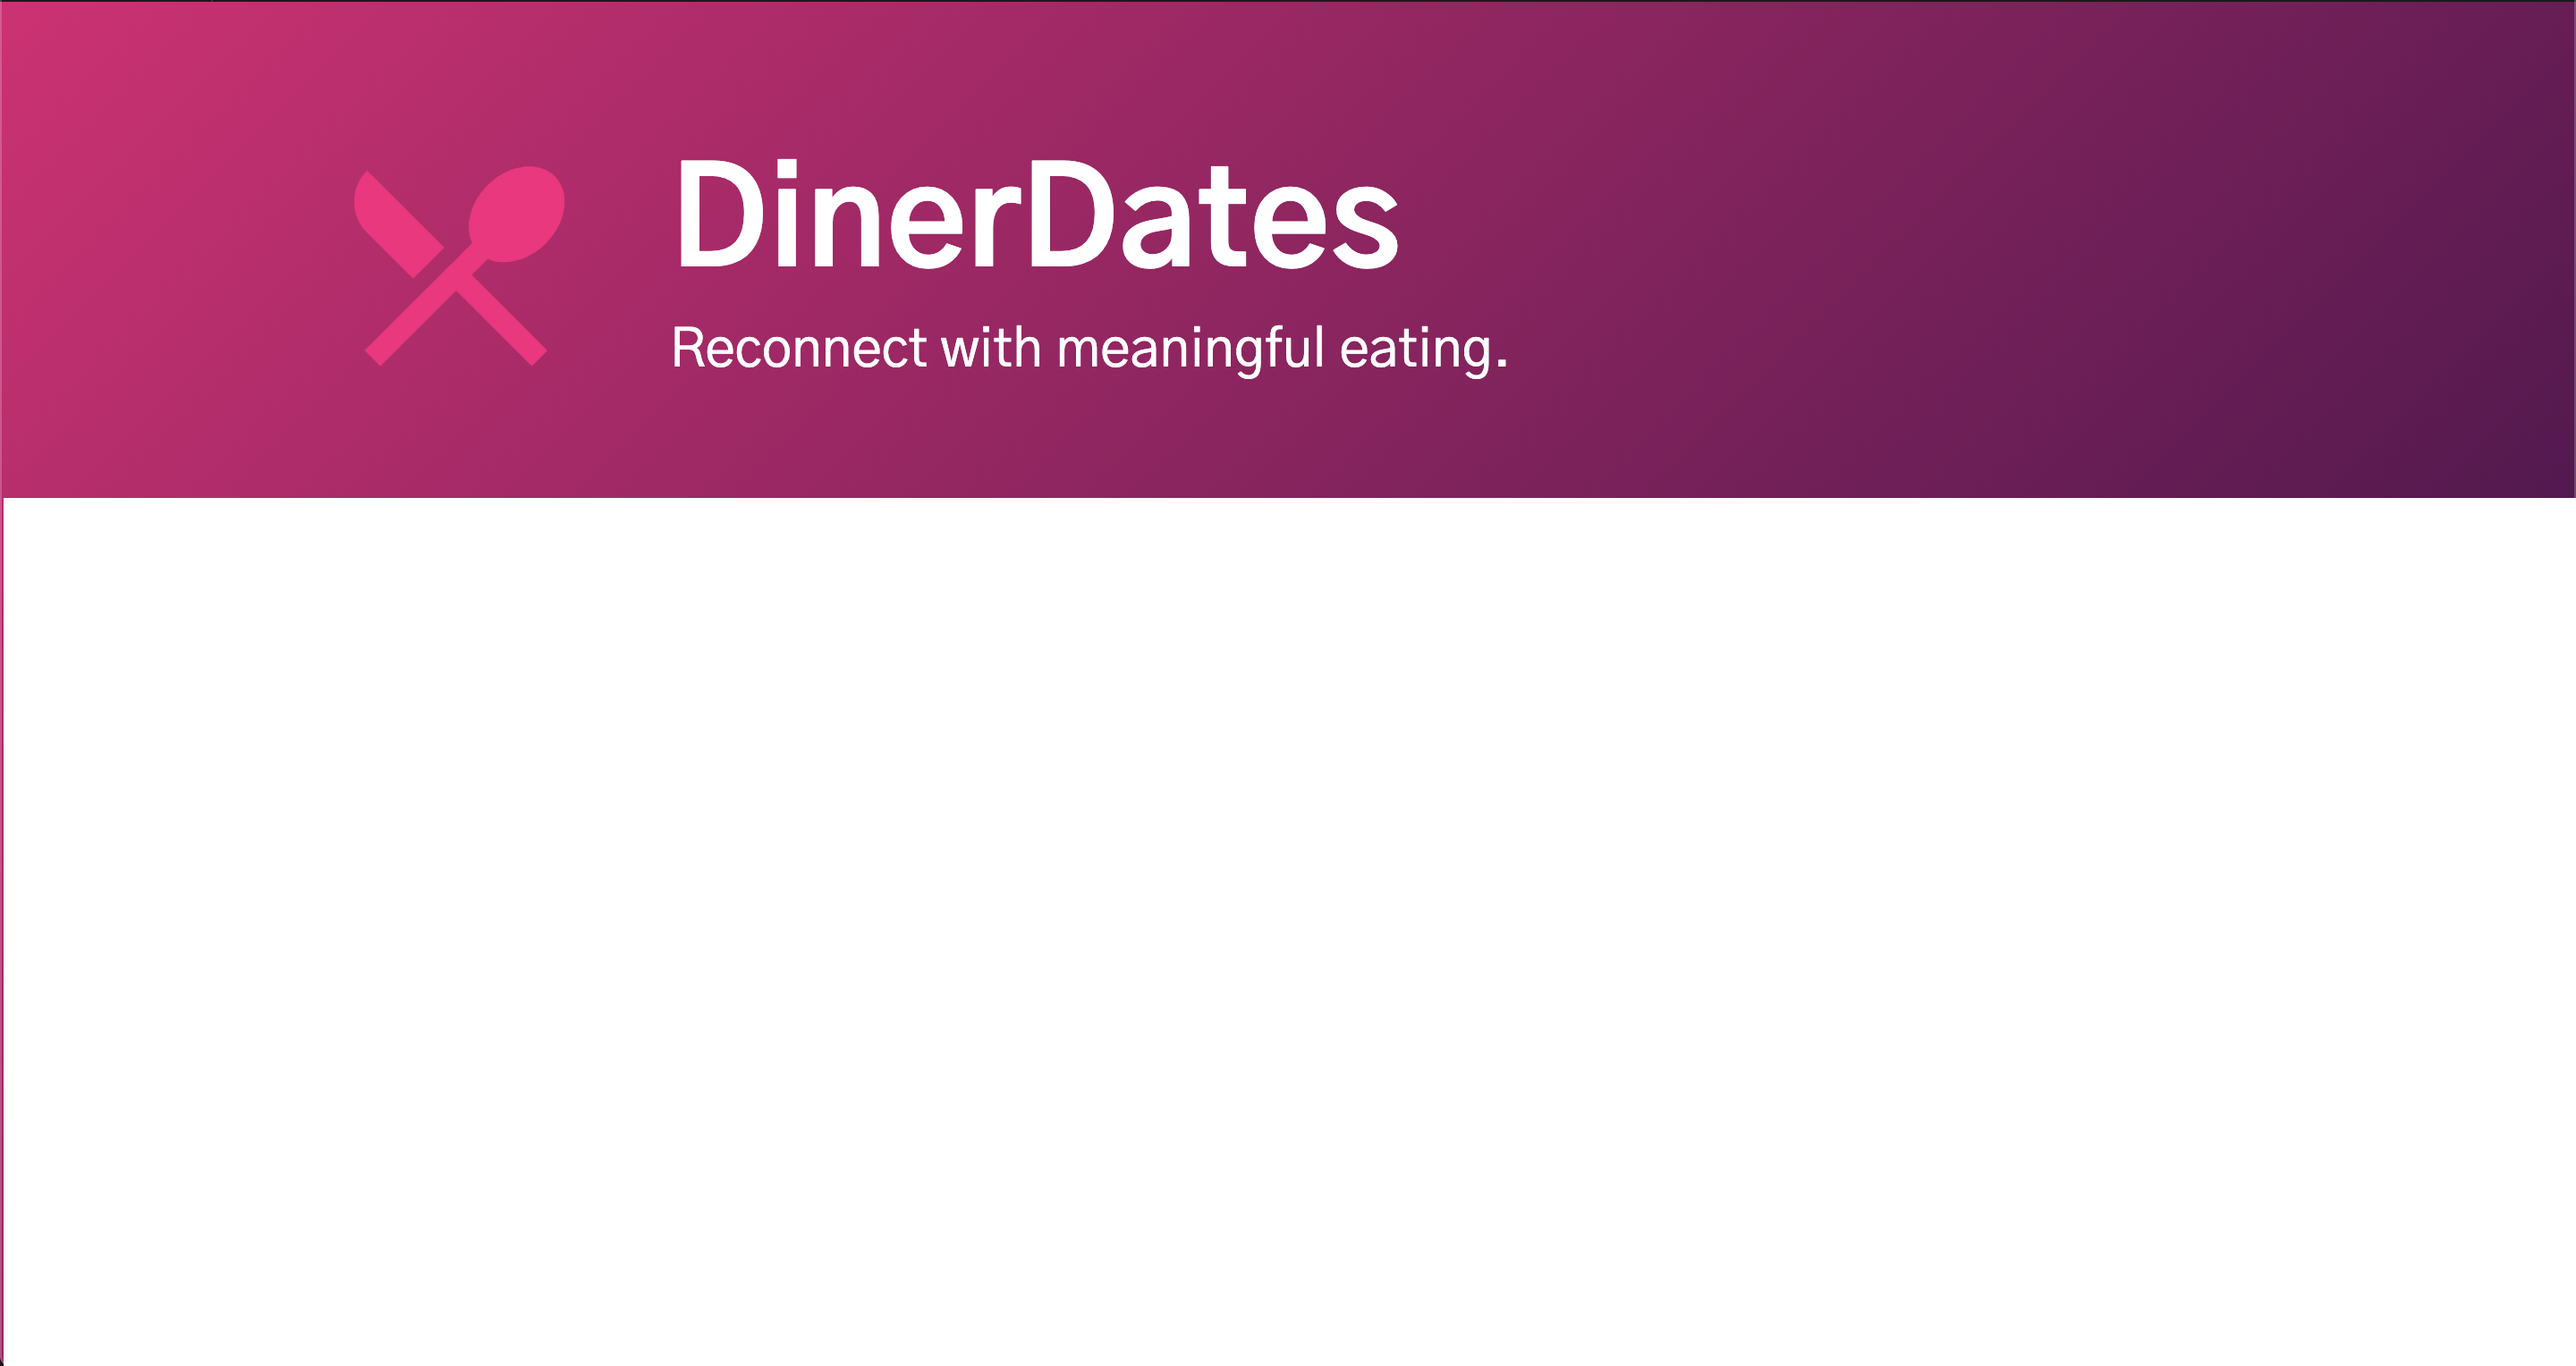
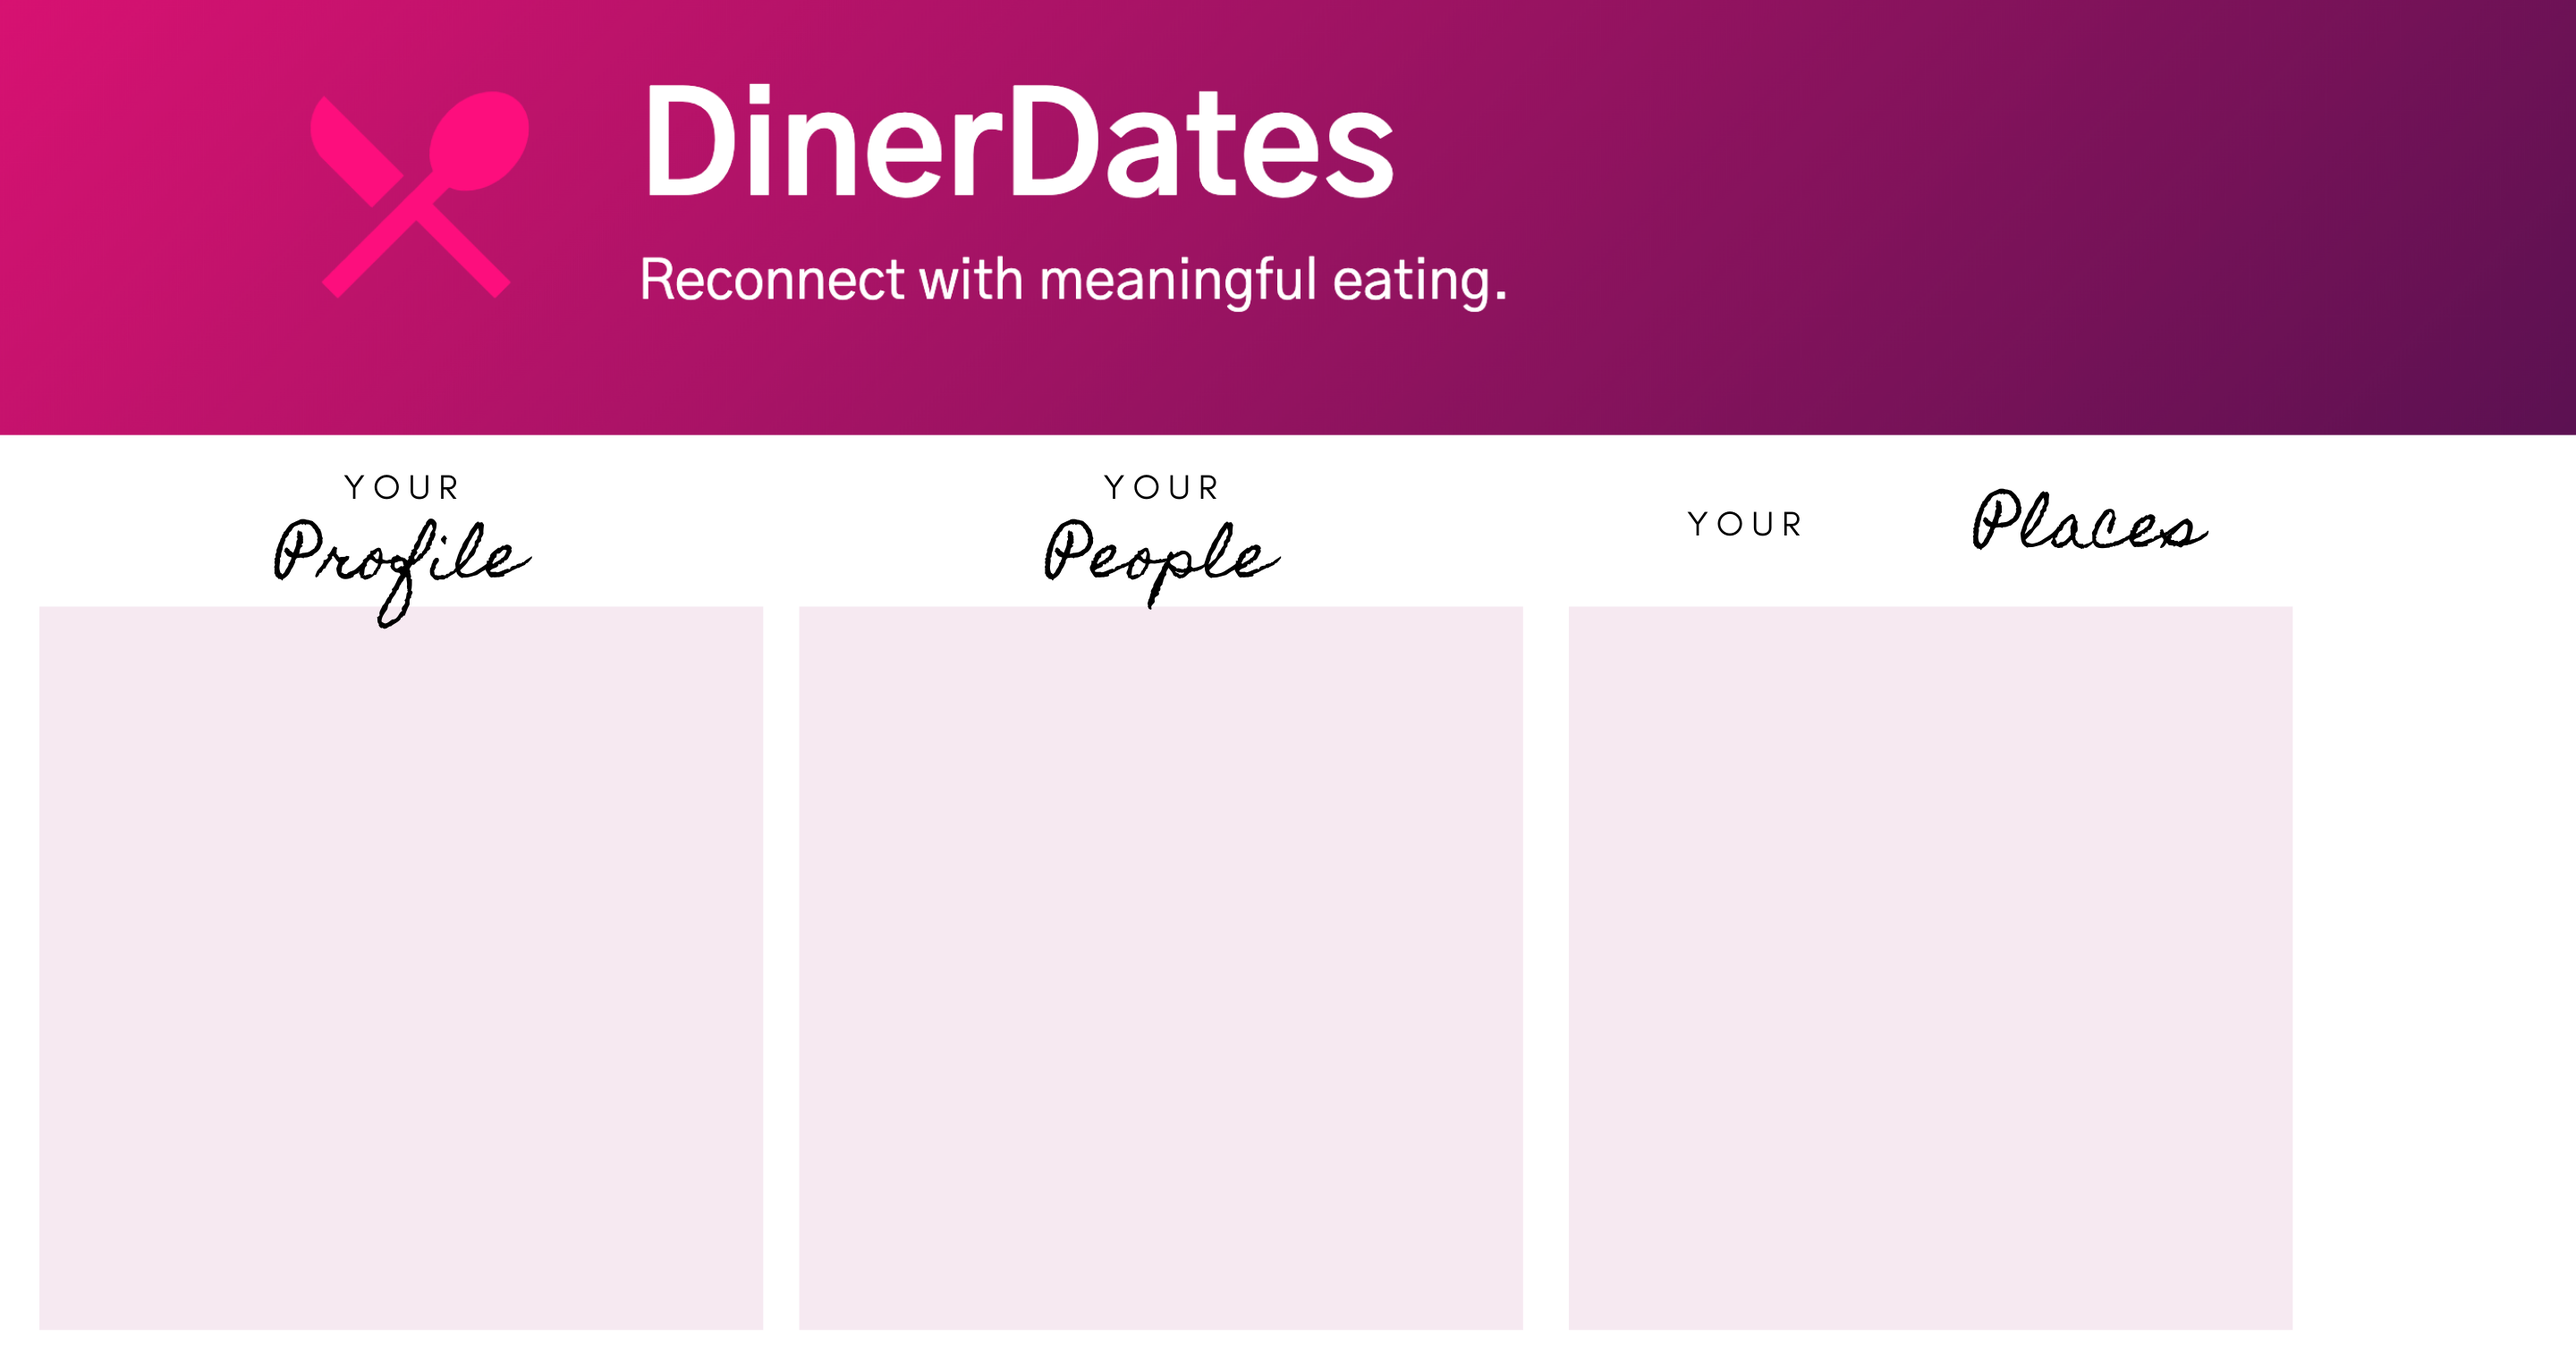
Hello

Changed region(s): [[0.0, 0.0, 1.0, 0.4614]]

diff --git a/src/main/ui/Main.java b/src/main/ui/Main.java
@@ -4,6 +4,7 @@ import javafx.application.Application;
 import javafx.geometry.Insets;
 import javafx.scene.Scene;
 import javafx.scene.control.Button;
+import javafx.scene.control.TextArea;
 import javafx.scene.control.TextField;
 import javafx.scene.layout.GridPane;
 import javafx.scene.layout.HBox;
@@ -28,12 +29,19 @@ public class Main extends Application{
     private static ArrayList<String> preferences = new ArrayList<String>() {{add("Sushi");
                                                                 add("pizza");}};
     private static Profile user = new Profile("Prestonmlo", "Preston Lo", "prestonmlo@gmail.com", "pmoney", preferences);
+    private static Profile user1 = new Profile("Matt1", "Matt Lo", "Mattlo@gmail.com", "pmoney", preferences);
+    private static Profile user2 = new Profile("Pat1", "Pat Chan", "Patchan@gmail.com", "pmoney", preferences);
+    private static Profile user3 = new Profile("danny1", "Danny Lo", "dannylo@gmail.com", "pmoney", preferences);
 
 
 
     public static void main(String[] args){
         ProfileList = new ArrayList<>();
         ProfileList.add(user);
+        ProfileList.add(user1);
+        ProfileList.add(user2);
+        ProfileList.add(user3);
+
         launch(args);
         menu(ProfileList);
     }
@@ -120,30 +128,57 @@ public class Main extends Application{
     private GridPane profilePane(){
         GridPane pane = new GridPane();
         pane.add(profile(), 0, 0, 1, 1);
-        pane.add(food(), 1, 0, 1,1);
-        pane.add(people(),2,0,2,1);
+        pane.add(people(), 1, 0, 1,1);
+        pane.add(food(),2,0,2,1);
         return pane;
     }
 
     private HBox profile(){
+        TextArea profile = new TextArea(getProfile());
+        profile.setPrefSize(400, 400);
 
-
-        HBox pane = new HBox();
+        HBox pane = new HBox(profile);
+        pane.setPadding(new Insets(400, 30, 5, 50));
+        pane.setSpacing(30);
         return pane;
     }
 
     private HBox food(){
+        TextArea food = new TextArea("map");
+        food.setPrefSize(400, 400);
 
 
-        HBox pane = new HBox();
+        HBox pane = new HBox(food);
+        pane.setPadding(new Insets(400, 20, 5, 55));
+        pane.setSpacing(30);
         return pane;
     }
 
     private HBox people(){
+        TextArea profile = new TextArea(getPeople());
+        profile.setPrefSize(400, 400);
 
-        
-        HBox pane = new HBox();
+        HBox pane = new HBox(profile);
+        pane.setPadding(new Insets(400, 30, 5, 40));
+        pane.setSpacing(30);
         return pane;
+    }
+
+    private String getProfile() {
+        return user.getUser();
+    }
+
+    private String getPeople() {
+        StringBuilder s = new StringBuilder();
+
+        for (int i = 0; i < ProfileList.size(); i++) {
+            if (user != ProfileList.get(i)) {
+                String s1 = ProfileList.get(i).getPeople() + "\n";
+                s.append(s1).toString();
+            }
+        }
+
+        return s.toString();
     }
 
 

diff --git a/src/main/model/Profile.java b/src/main/model/Profile.java
@@ -17,6 +17,28 @@ public class Profile {
         this.preferences = preferences;
     }
 
+    public String getPeople() {
+        StringBuilder string = new StringBuilder();
+        String s = this.name;
+        String s1 = this.email;
+        string.append(s + "\n");
+        string.append(s1 + "\n\n");
+        return string.toString();
+    }
+
+    public String getUser() {
+        StringBuilder string = new StringBuilder();
+        String s = this.name;
+        String s1 = "";
+        for (int i = 0; i<this.preferences.size(); i++) {
+            s1 = preferences.get(i) + "\n";
+        }
+        string.append(s + "\n\n");
+        string.append("Your Preferences:\n");
+        string.append(s1 + "\n");
+        return string.toString();
+    }
+
     public void setUsername(String username) {
         this.username = username;
     }
